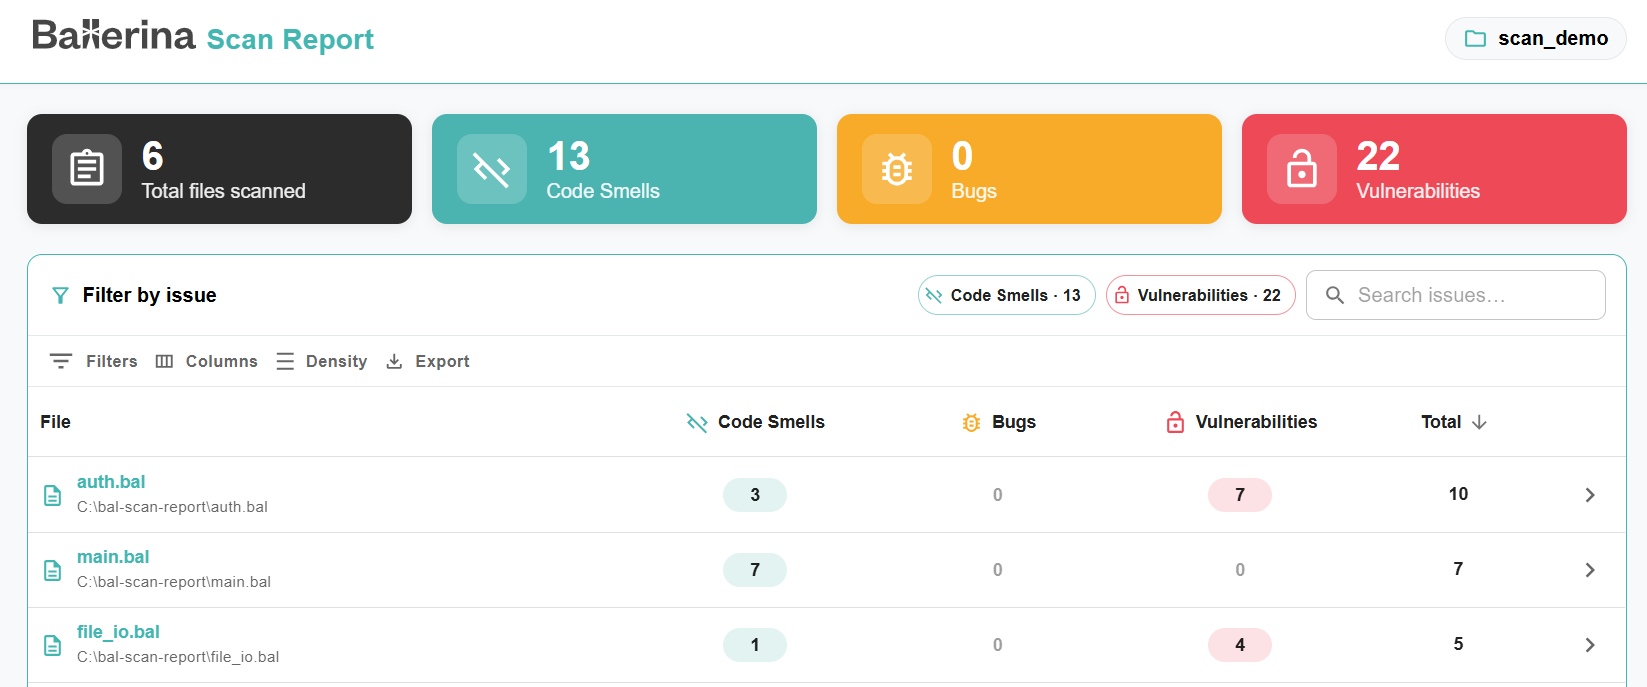
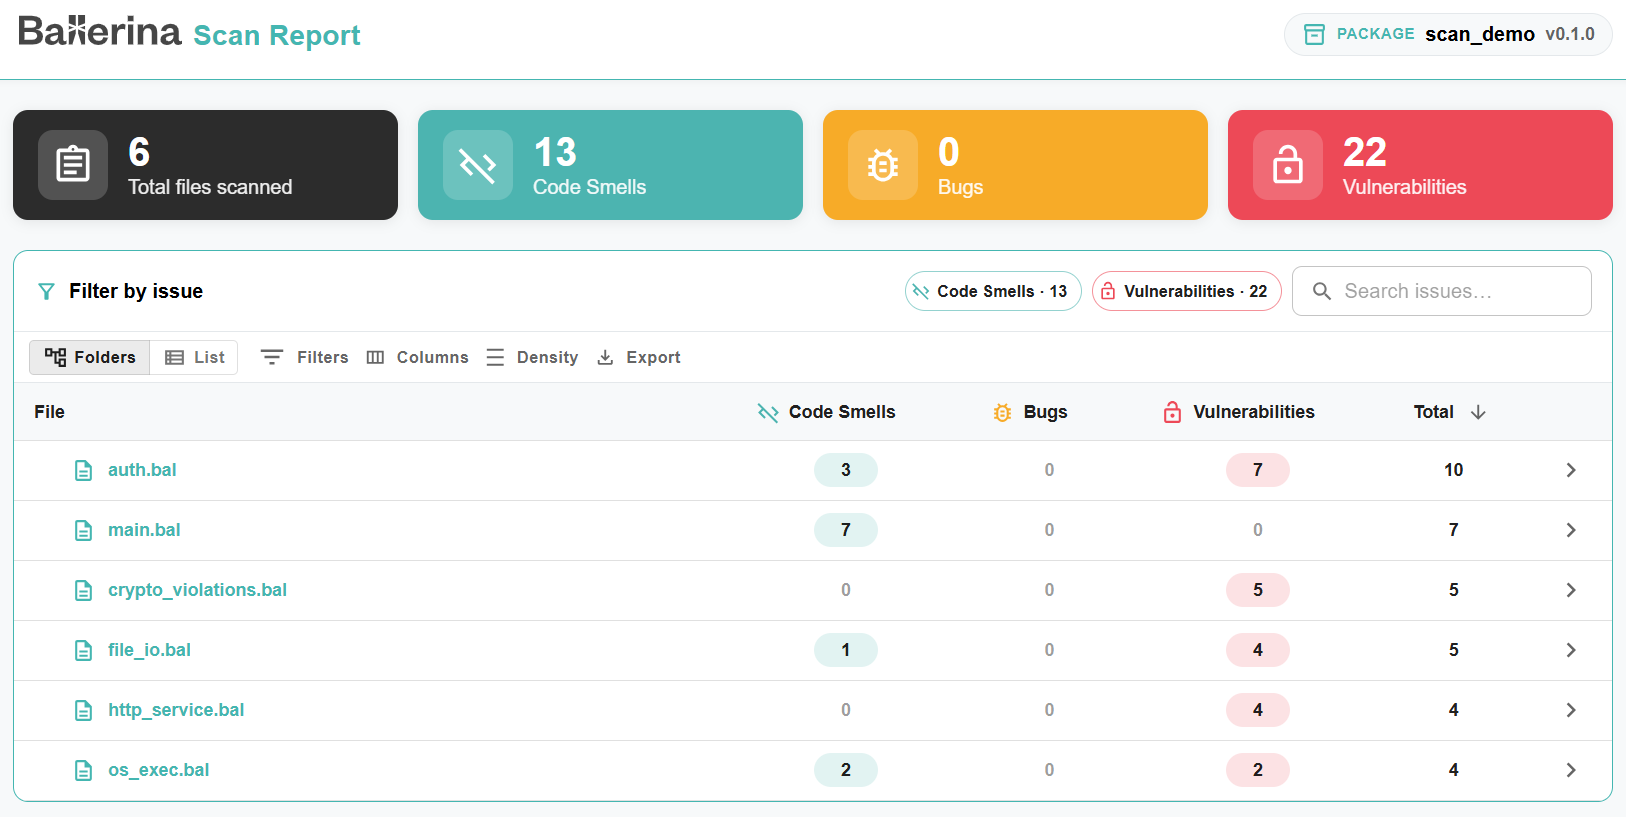
Update screenshots and their respective links

diff --git a/scan-command/tool-scan/README.md b/scan-command/tool-scan/README.md
@@ -129,15 +129,15 @@ This produces an HTML report and the scan results in JSON format inside the `tar
 
 The HTML report includes a summary of the total number of files scanned and the number of code smells, bugs, and vulnerabilities found in each file. You can filter, search, and export the list of files.
 
-![scan-report-summary-view](images/scan-tool-html-report-summary-view.png)
+![scan-report-summary-view](https://raw.githubusercontent.com/ballerina-platform/static-code-analysis-tool/main/scan-command/tool-scan/images/scan-tool-html-report-summary-view.png)
 
 To investigate further, click on a file name to open the file view. This view shows the source of the file and highlights the exact lines where problems were detected. Hover over a highlight to see a summary of the issue, or click it to see the full details.
 
-![scan-report-file-view](images/scan-tool-html-report-file-view.png)
+![scan-report-file-view](https://raw.githubusercontent.com/ballerina-platform/static-code-analysis-tool/main/scan-command/tool-scan/images/scan-tool-html-report-file-view.png)
 
 The issues found in the file are listed in a table with the line, rule ID, name, kind, severity, CWE, and OWASP Top 10 category of each issue. Expand an issue to see its description and the full rule details, such as its location, source, and tags. From there, you can jump to the issue in the source using **Show in code**, or open the rule's documentation using **Rule documentation**.
 
-![scan-report-issue-view](images/scan-tool-html-report-issue-view.png)
+![scan-report-issue-view](https://raw.githubusercontent.com/ballerina-platform/static-code-analysis-tool/main/scan-command/tool-scan/images/scan-tool-html-report-issue-view.png)
 
 ## Configuration
 
